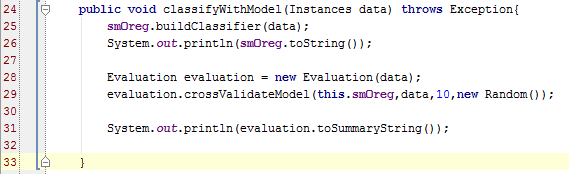
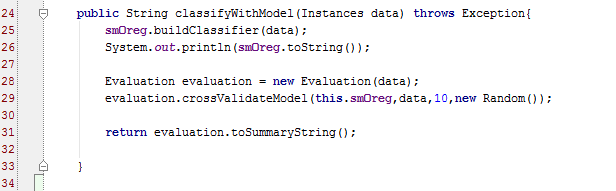
new images

diff --git a/src/rs/fon/is/carPricePrediction/dataMining/WekaLinearRegression.java b/src/rs/fon/is/carPricePrediction/dataMining/WekaLinearRegression.java
@@ -70,7 +70,7 @@ public class WekaLinearRegression {
                 this.filteredClassifier.setFilter(mf);
                 this.filteredClassifier.buildClassifier(data);
 
-               // return filteredClassifier.toString();
+
                 Evaluation evaluation = new Evaluation(data);
                 evaluation.crossValidateModel(this.filteredClassifier,data,10,new Random());
 
@@ -85,7 +85,7 @@ public class WekaLinearRegression {
                 this.filteredClassifier.setFilter(standardize);
                 this.filteredClassifier.buildClassifier(data);
 
-                //return filteredClassifier.toString();
+
                 Evaluation evaluation = new Evaluation(data);
                 evaluation.crossValidateModel(this.filteredClassifier,data,10,new Random());
 

diff --git a/src/rs/fon/is/carPricePrediction/dataMining/WekaSMOreg.java b/src/rs/fon/is/carPricePrediction/dataMining/WekaSMOreg.java
@@ -32,6 +32,8 @@ public class WekaSMOreg {
 
     }
 
+
+
     public String classifyWithoutModel(Instances data) throws Exception{
 
         Remove remove = new Remove();
